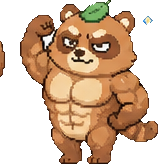
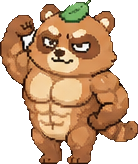
Rework MachoPonta as a single-sprite pose and add effects to PontaPuppet
- MachoPonta now renders the spec sheet's flex pose (pose_flex) as one
  sprite with breathing/pump/tap-jump; part composition was abandoned
  after three failed attempts (fused arms and head swaps all looked off)
- pose_flex re-cropped without neighboring-pose artifacts
- PontaPuppet: optional floating effect parts
  (sweat / fire / heart / meat / beer / rice) beside the head

diff --git a/lib/widgets/macho_ponta.dart b/lib/widgets/macho_ponta.dart
@@ -6,14 +6,14 @@ import 'package:flutter/services.dart';
 
 import '../services/sfx_service.dart';
 
-/// 💪 ムキムキぽんぽこ（直立ウインクの1形態のみ）。
-/// ボディは assets/images/ponta_macho/（tools/extract_macho.py で切り出し、
-/// 配置は tools/compose_macho.py の stand_pose が原本）、
-/// 頭はマッチョシートのドヤ頭がデカすぎたため既存の head_wink を小さめに代用。
-/// 腕組み（head_arm_l）は腕1本フュージョンが化け物に見えるため不採用。
-/// 表情差し替えはしない方針（ややこしくなるのでムキムキは1形態だけ）
+/// 💪 ムキムキぽんぽこ。
+/// マッチョ仕様書シートの「ポーズ例・右から3番目」（片腕フレックス＋ドヤ横目）を
+/// 1枚絵のまま使用（tools/extract_macho.py の pose_flex、138x164）。
+/// パーツ合成は腕の本数や顔位置の事故が起きやすいため不採用
+/// （経緯: 腕組み合成→化け物、wink頭載せ→顔位置が変、で1枚絵に落ち着いた）。
+/// 呼吸のゆる動き＋タップでぴょん
 class MachoPonta extends StatefulWidget {
-  /// 表示高さ。幅はデザイン比率(280:370)から自動で決まる
+  /// 表示高さ。幅は素材比率(138:164)から自動で決まる
   final double size;
 
   const MachoPonta({super.key, this.size = 120});
@@ -24,9 +24,7 @@ class MachoPonta extends StatefulWidget {
 
 class _MachoPontaState extends State<MachoPonta>
     with SingleTickerProviderStateMixin {
-  // デザイン座標系（tools/compose_macho.py と同じ数値）
-  static const _designW = 280.0;
-  static const _designH = 370.0;
+  static const _aspect = 138 / 164;
 
   late final Ticker _ticker;
   double _t = 0;
@@ -59,71 +57,28 @@ class _MachoPontaState extends State<MachoPonta>
     setState(() => _jumpT = 0);
   }
 
-  Widget _part(
-    String name, {
-    required double left,
-    required double top,
-    required double width,
-    double angle = 0,
-    Alignment pivot = Alignment.center,
-    bool flip = false,
-    String folder = 'ponta_macho',
-  }) {
-    final s = widget.size / _designH;
-    Widget child = Image.asset(
-      'assets/images/$folder/$name.png',
-      width: width * s,
-      filterQuality: FilterQuality.medium,
-    );
-    if (flip) {
-      child = Transform.flip(flipX: true, child: child);
-    }
-    return Positioned(
-      left: left * s,
-      top: top * s,
-      child: angle == 0
-          ? child
-          : Transform.rotate(angle: angle, alignment: pivot, child: child),
-    );
-  }
-
   @override
   Widget build(BuildContext context) {
-    final tailA = sin(_t * 2 * pi / 1.8) * 0.09;
-    final headA = sin(_t * 2 * pi / 3.3) * 0.03;
-    final armA = sin(_t * 2 * pi / 2.5) * 0.04;
-    final breathe = sin(_t * 2 * pi / 2.2) * 1.4;
+    final breathe = sin(_t * 2 * pi / 2.2) * widget.size * 0.008;
+    // 筋肉のパンプ感（ごく僅かな伸縮）
+    final pump = 1.0 + sin(_t * 2 * pi / 2.2) * 0.008;
     final jumpY = _jumpT < 1.0 ? -sin(pi * _jumpT) * widget.size * 0.10 : 0.0;
 
     return GestureDetector(
       onTap: _onTap,
       child: SizedBox(
-        width: widget.size * _designW / _designH,
+        width: widget.size * _aspect,
         height: widget.size,
         child: Transform.translate(
-          offset: Offset(0, jumpY + breathe * widget.size / _designH),
-          child: Stack(
-            clipBehavior: Clip.none,
-            children: [
-              // 後ろ→前の順（tools/compose_macho.py stand_poseと同じ）
-              _part('tail',
-                  left: 175, top: 195, width: 107,
-                  angle: tailA, pivot: const Alignment(-0.8, 0.9)),
-              _part('leg_l', left: 60, top: 215, width: 68),
-              _part('leg_r', left: 150, top: 215, width: 71),
-              _part('arm_r_down',
-                  left: 28, top: 135, width: 66, flip: true,
-                  angle: armA, pivot: const Alignment(0.5, -0.8)),
-              _part('arm_r_down',
-                  left: 188, top: 135, width: 66,
-                  angle: -armA, pivot: const Alignment(-0.5, -0.8)),
-              _part('body', left: 68, top: 130, width: 146),
-              // 頭は既存のwink（体中心x=141に合わせて幅200、胸筋が見えるよう高め）
-              _part('head_wink',
-                  left: 41, top: 10, width: 200,
-                  angle: headA, pivot: const Alignment(0, 0.85),
-                  folder: 'ponta_parts'),
-            ],
+          offset: Offset(0, jumpY + breathe),
+          child: Transform.scale(
+            scaleY: pump,
+            alignment: Alignment.bottomCenter,
+            child: Image.asset(
+              'assets/images/ponta_macho/pose_flex.png',
+              height: widget.size,
+              filterQuality: FilterQuality.medium,
+            ),
           ),
         ),
       ),

diff --git a/lib/widgets/ponta_puppet.dart b/lib/widgets/ponta_puppet.dart
@@ -22,6 +22,16 @@ enum PontaExpression {
   surprised, // 驚き（目まんまる＋フラッシュ）
 }
 
+/// 頭の横に浮かぶエフェクト（マッチョ仕様書シートのエフェクトパーツ由来）
+enum PontaEffect {
+  sweat, // 汗（焦り）
+  fire, // 燃えてる（炎上・オーバー）
+  heart, // ハート（ご機嫌・お願い）
+  meat, // 肉
+  beer, // ビール
+  rice, // ご飯（記録の催促）
+}
+
 /// 🦝 パーツ分け素材を組み立てて動かすぽんぽこ人形。
 /// 素材は assets/images/ponta_parts/（ChatGPT生成画像を tools/extract_parts.py で
 /// 背景抜き＋切り出ししたもの）。しっぽ・頭・手が常時ゆるく動き、タップでぴょん＋「ぽんっ」
@@ -31,10 +41,14 @@ class PontaPuppet extends StatefulWidget {
 
   final PontaExpression expression;
 
+  /// 頭の横にふわふわ浮かぶエフェクト（nullなら無し）
+  final PontaEffect? effect;
+
   const PontaPuppet({
     super.key,
     this.size = 96,
     this.expression = PontaExpression.normal,
+    this.effect,
   });
 
   @override
@@ -149,11 +163,27 @@ class _PontaPuppetState extends State<PontaPuppet>
               // 表情差分の頭。クロップの広さが表情ごとに違うので
               // 顔の大きさが揃うよう配置を個別調整している（tools/compose_mix.pyが原本）
               _head(headA),
+              // エフェクトは頭の右上にふわふわ浮かべる
+              if (widget.effect != null) _effect(),
             ],
           ),
         ),
       ),
     );
+  }
+
+  Widget _effect() {
+    final bob = sin(_t * 2 * pi / 1.6) * 8;
+    final (name, width) = switch (widget.effect!) {
+      PontaEffect.sweat => ('fx_sweat', 100.0),
+      PontaEffect.fire => ('fx_fire', 130.0),
+      PontaEffect.heart => ('fx_heart', 140.0),
+      PontaEffect.meat => ('fx_meat', 130.0),
+      PontaEffect.beer => ('fx_beer', 115.0),
+      PontaEffect.rice => ('fx_rice', 130.0),
+    };
+    return _part(name,
+        left: 445, top: -5 + bob, width: width, folder: 'ponta_macho');
   }
 
   Widget _head(double headA) {